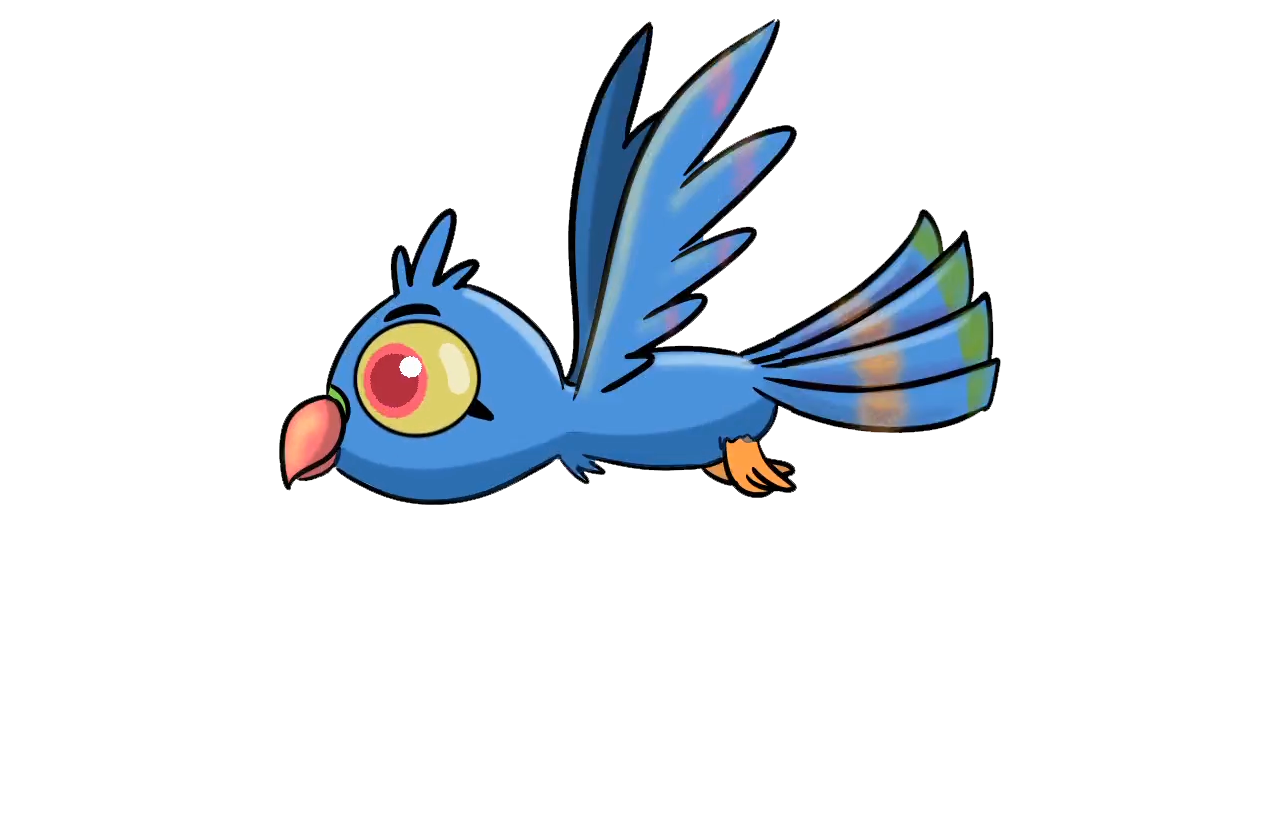
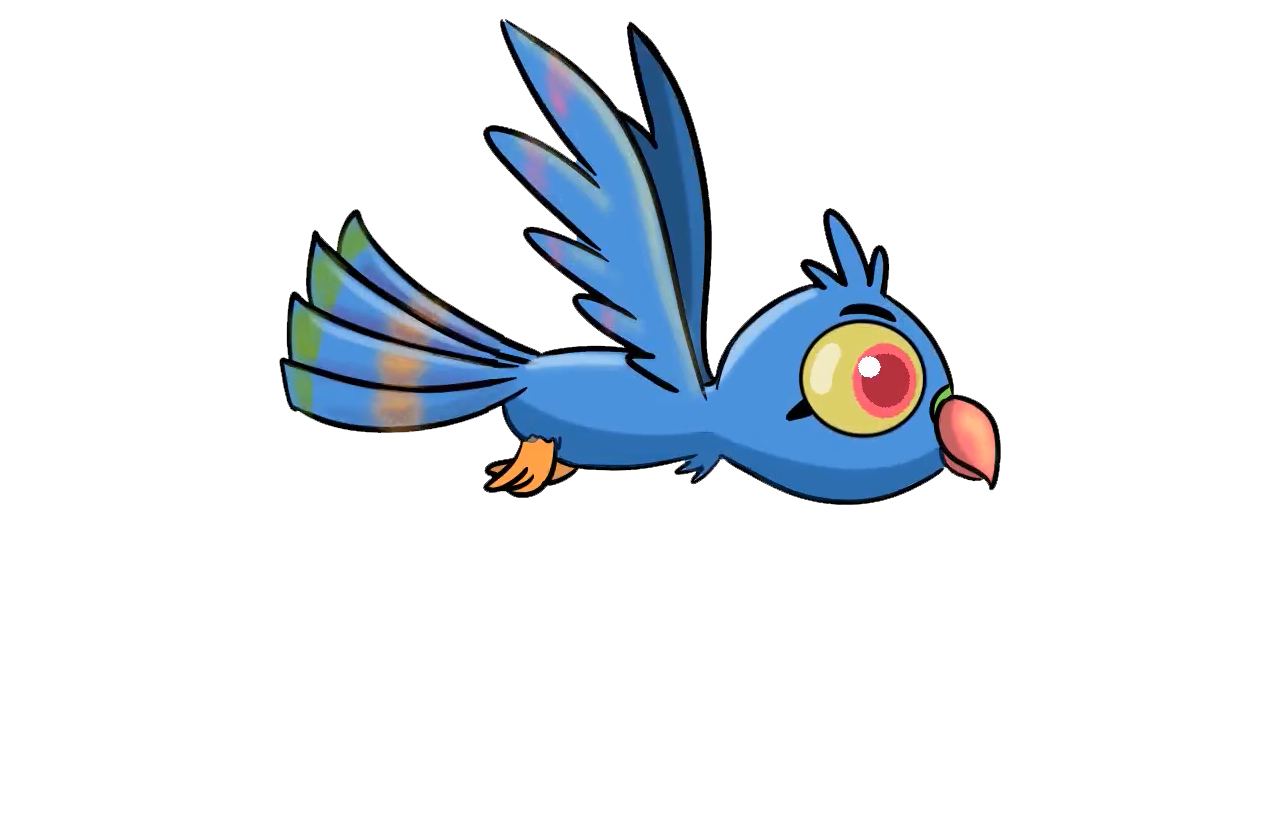
添加可选角色

Changed region(s): [[0.2188, 0.0305, 0.7812, 0.6402]]

diff --git a/Assets/Flappy Bird Style/Scripts/GameControl.cs b/Assets/Flappy Bird Style/Scripts/GameControl.cs
@@ -13,9 +13,14 @@ public class GameControl : MonoBehaviour
 	public bool gameOver = false;				//Is the game over?
 	public float scrollSpeed = -1.5f;
 
-    
+    public GameObject[] players;
 
-	void Awake()
+    private void Start()
+    {
+        Instantiate(players[GameManager.Instance.playerIdx],new Vector3(-1.8f, 0.55f),Quaternion.identity);
+    }
+
+    void Awake()
 	{
 		//If we don't currently have a game control...
 		if (instance == null)
